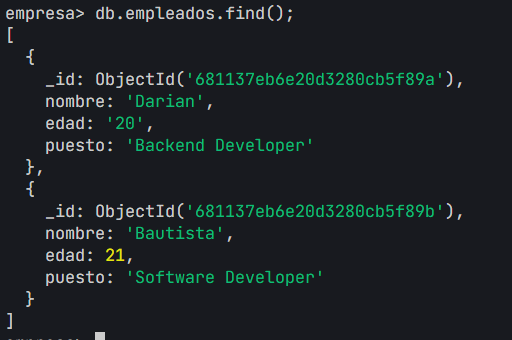
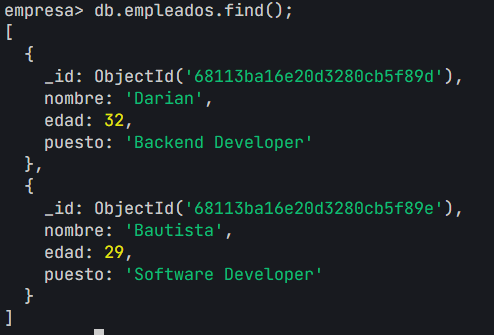
Ejercicio - 1 | TP2

diff --git a/TP2/TP2.md b/TP2/TP2.md
@@ -2,55 +2,55 @@
 
 [1](#1) [2](#2) [3](#3) [4](#4) [5](#5) [6](#6) [7](#7) [8](#8) [9](#9) [10] (#10)
 
-## 1. 
+## 1. CRUD 
 
-### Verificar si esta instalado mongodb
+#### Verificar si esta instalado mongodb
 
 ```bash
 mongod --version
 ```
 <img src="img/verificar-instalacion.png">
 
-### Conectarse a mongodb mediante mongosh
+#### Conectarse a mongodb mediante mongosh
 
 ```bash
 mongosh
 ```
 <img src="img/mongosh.png">
 
-### Llamamos la base de datos "empresa"
+#### Llamamos la base de datos "empresa"
 
 ```bash
 use empresa
 ```
 
-### Creacion de colecciones empleados
+#### Creacion de colecciones empleados
 
 ```bash
 db.createCollection("empleados")
 ```
 
-### Insertar datos en la coleccion empleados
+#### Insertar datos en la coleccion empleados
 
 ```bash
 db.empleados.insertMany([
-    {nombre:'Juani Ignacio', edad: 20, puesto: 'pasante'},
-    {nombre:'Darian', edad: '20', puesto: 'Backend Developer'},
-    {nombre:'Bautista', edad: '20', puesto: 'Software Developer'}
+    {nombre:'Juani Ignacio', edad: 30, puesto: 'pasante'},
+    {nombre:'Darian', edad: 32, puesto: 'Backend Developer'},
+    {nombre:'Bautista', edad: 41, puesto: 'Software Developer'}
 ]);
 ```
-## Update
-### Actualizar la edad del empleado 'Bautista'
+### Update
+#### Actualizar la edad del empleado 'Bautista'
 
 ```bash
 db.empleados.updateOne(
     {nombre: 'Bautista'},
-    {$set: {edad: 21}}
+    {$set: {edad: 29}}
 );
 ```
 
-## Delete
-### Eliminar el empleado 'pasante'
+### Delete
+#### Eliminar el empleado 'pasante'
 
 ```bash
 db.empleados.deleteOne(
@@ -58,15 +58,13 @@ db.empleados.deleteOne(
 );
 ```
 
-### ver los datos
+#### Ver los datos
 
 ```bash
 db.empleados.find();
 ```
-<img src=img/ver-datos-finales.png>
 
+<img src="img/ver-datos-finales.png">
 
-
-
-
+## 2. Operadores Consulta
 

diff --git a/TP2/ejercicios.md b/TP2/ejercicios.md
@@ -1,7 +1,4 @@
 TP2: MongoDB
-Ejercicio 1: CRUD básico
-
-Elimina al empleado que tenga el puesto de "pasante".
 
 Ejercicio 2: Búsquedas con operadores Consulta todos los empleados cuya edad esté entre 25 y 40 años. Usa operadores relacionales y lógicos.
 
